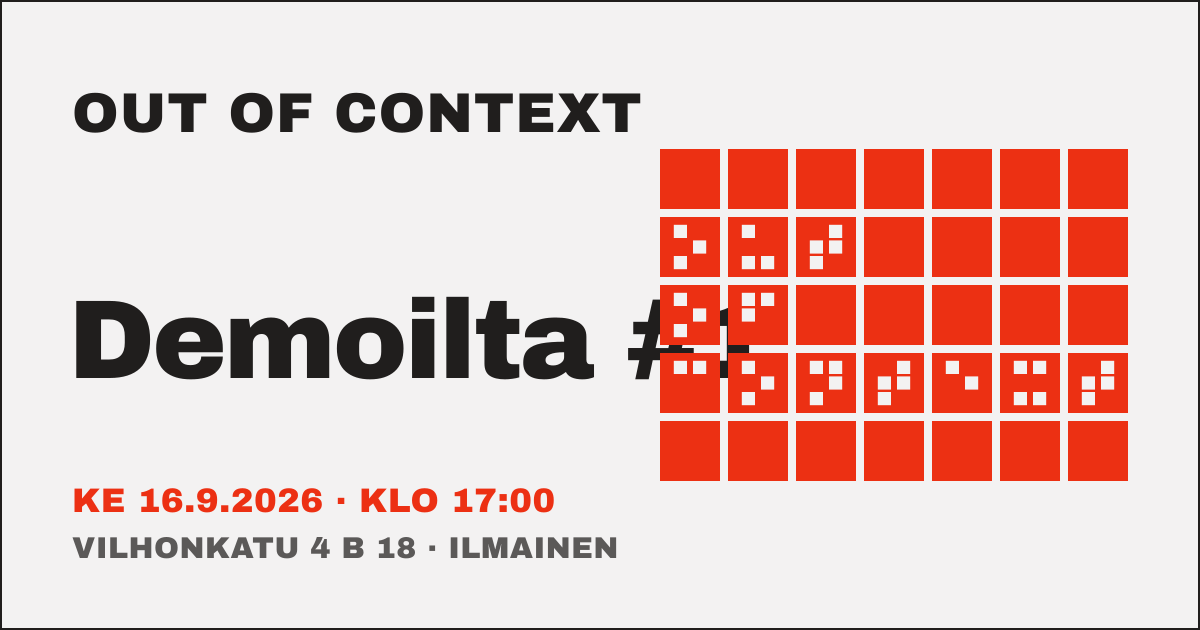
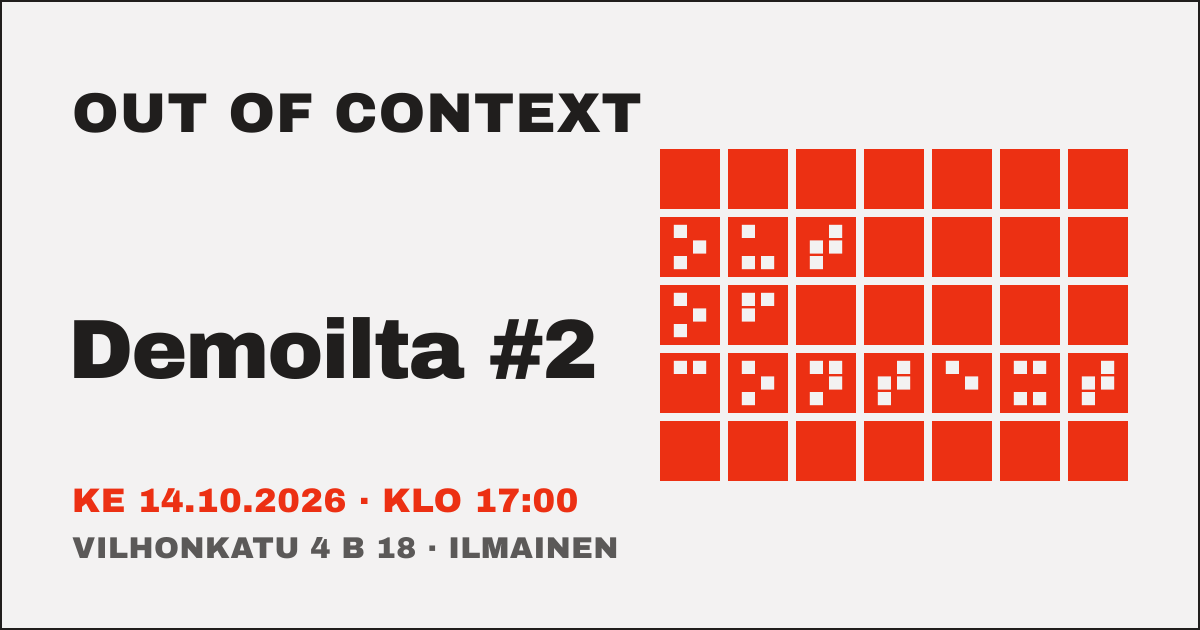
feat: announce demo night 2

diff --git a/templates/index.html b/templates/index.html
@@ -3,7 +3,7 @@
 <head>
 <meta charset="utf-8">
 <meta name="viewport" content="width=device-width, initial-scale=1">
-<title>Out of Context demoilta #1 · Helsinki 16.9.2026</title>
+<title>Out of Context demoilta #2 · Helsinki 14.10.2026</title>
 <meta name="description" content="{{ config.description }}">
 <link rel="canonical" href="{{ config.base_url }}/">
 
@@ -12,14 +12,14 @@
 <meta property="og:site_name" content="Out of Context">
 <meta property="og:locale" content="fi_FI">
 <meta property="og:url" content="{{ config.base_url }}/">
-<meta property="og:title" content="Out of Context demoilta #1">
+<meta property="og:title" content="Out of Context demoilta #2">
 <meta property="og:description" content="{{ config.description }}">
 <meta property="og:image" content="{{ config.base_url }}/og-image.png">
 <meta property="og:image:width" content="1200">
 <meta property="og:image:height" content="630">
-<meta property="og:image:alt" content="Out of Context — ilta sinulle joka luot AI:lla. Helsinki, ke 16.9.2026.">
+<meta property="og:image:alt" content="Out of Context — ilta sinulle joka luot AI:lla. Helsinki, ke 14.10.2026.">
 <meta name="twitter:card" content="summary_large_image">
-<meta name="twitter:title" content="Out of Context demoilta #1">
+<meta name="twitter:title" content="Out of Context demoilta #2">
 <meta name="twitter:description" content="{{ config.description }}">
 <meta name="twitter:image" content="{{ config.base_url }}/og-image.png">
 
@@ -311,11 +311,11 @@ a:hover { color: var(--color-accent); }
   <div id="lang-fi">
     <section style="display:grid; grid-template-columns:1.35fr 1fr; gap:48px; padding:56px 0 44px; border-bottom:2px solid var(--color-divider)">
       <div>
-        <div style="font-family:var(--font-heading); font-weight:700; font-size:13px; letter-spacing:0.1em; text-transform:uppercase; color:var(--color-accent-700); margin-bottom:28px">Helsinki · ke 16.9.2026 · klo 17:00 · ilmainen</div>
-        <h1 style="font-size:clamp(38px,6.2vw,78px); line-height:0.98; letter-spacing:-0.03em; margin:0 0 24px; text-wrap:balance">Demoilta #1</h1>
+        <div style="font-family:var(--font-heading); font-weight:700; font-size:13px; letter-spacing:0.1em; text-transform:uppercase; color:var(--color-accent-700); margin-bottom:28px">Helsinki · ke 14.10.2026 · klo 17:00 · ilmainen</div>
+        <h1 style="font-size:clamp(38px,6.2vw,78px); line-height:0.98; letter-spacing:-0.03em; margin:0 0 24px; text-wrap:balance">Demoilta #2</h1>
         <p style="font-size:20px; line-height:1.4; max-width:30ch; margin:0 0 36px">Ilta sinulle joka luot AI:lla.</p>
         <div style="display:grid; grid-template-columns:1fr 1fr; gap:12px; max-width:520px">
-          <a href="https://luma.com/8ankyx8u" class="btn btn-primary" style="justify-content:flex-start; text-align:left; font-size:17px; padding:18px 20px; border:2px solid var(--color-accent)">Ilmoittaudu</a>
+          <a href="https://luma.com/tf4w6epb" class="btn btn-primary" style="justify-content:flex-start; text-align:left; font-size:17px; padding:18px 20px; border:2px solid var(--color-accent)">Ilmoittaudu</a>
           <a href="mailto:hei@out-of-context.dev?subject=Haluan%20demota" class="btn" style="justify-content:flex-start; text-align:left; font-size:17px; padding:18px 20px; border:2px solid var(--color-text); background:var(--color-bg); color:var(--color-text)" data-hover-tint>Haluan demota</a>
         </div>
       </div>
@@ -327,7 +327,7 @@ a:hover { color: var(--color-accent); }
 
     <section style="display:grid; grid-template-columns:repeat(3, 1fr); gap:32px; padding:40px 0; border-bottom:2px solid var(--color-divider)">
       <p style="font-size:16px; margin:0">Olemme rakentamassa suomalaista yhteisöä kaikille AI:lla rakentaville: open source&nbsp;&#8209;devaajille, hakkereille, tutkijoille ja kaikille joilla on kesken kaikenlaisia rakenteluprojekteja. Kaikki tervetulleita.</p>
-      <p style="font-size:16px; margin:0">Ensimmäisessä tapaamisessa on kaksi vartin esitystä ja noin viisi salamademoa. Sen jälkeen puhutaan.</p>
+      <p style="font-size:16px; margin:0">Illassa on noin kuusi napakkaa demoa tai esitystä. Jokaisessa näytetään jotain rakennettua; sen jälkeen keskustellaan.</p>
       <p style="font-size:16px; margin:0">Ei sponsoripuheenvuoroja, ei paneeleja, ei rekrytointia.</p>
     </section>
 
@@ -378,8 +378,8 @@ a:hover { color: var(--color-accent); }
       </div>
       <div style="border:2px solid var(--color-divider); padding:24px; display:flex; flex-direction:column; gap:14px; align-items:flex-start">
         <div style="font-family:var(--font-heading); font-weight:700; font-size:11px; letter-spacing:0.1em; text-transform:uppercase">Lu.ma</div>
-        <div style="font-size:16px">Out of Context demoilta #1 · ke 16.9.2026 klo 17:00 · Vilhonkatu 4 B 18, Helsinki</div>
-        <a href="https://luma.com/8ankyx8u" class="btn btn-primary" style="justify-content:flex-start; font-size:16px; padding:16px 20px; width:100%; box-sizing:border-box">Ilmoittaudu Lu.massa</a>
+        <div style="font-size:16px">Out of Context demoilta #2 · ke 14.10.2026 klo 17:00 · Vilhonkatu 4 B 18, Helsinki</div>
+        <a href="https://luma.com/tf4w6epb" class="btn btn-primary" style="justify-content:flex-start; font-size:16px; padding:16px 20px; width:100%; box-sizing:border-box">Ilmoittaudu Lu.massa</a>
         <div class="text-muted" style="font-size:13px">Vilhonkatu 4 B 18, 4. krs, 00100 Helsinki. Kysyttävää? <a href="mailto:hei@out-of-context.dev?subject=Haluan%20demota">hei@out-of-context.dev</a></div>
       </div>
     </section>
@@ -388,11 +388,11 @@ a:hover { color: var(--color-accent); }
   <div id="lang-en" hidden>
     <section style="display:grid; grid-template-columns:1.35fr 1fr; gap:48px; padding:56px 0 44px; border-bottom:2px solid var(--color-divider)">
       <div>
-        <div style="font-family:var(--font-heading); font-weight:700; font-size:13px; letter-spacing:0.1em; text-transform:uppercase; color:var(--color-accent-700); margin-bottom:28px">Helsinki · Wed 16 Sep 2026 · 17:00 · free</div>
-        <h1 style="font-size:clamp(38px,6.2vw,78px); line-height:0.98; letter-spacing:-0.03em; margin:0 0 24px; text-wrap:balance">Demo night #1</h1>
+        <div style="font-family:var(--font-heading); font-weight:700; font-size:13px; letter-spacing:0.1em; text-transform:uppercase; color:var(--color-accent-700); margin-bottom:28px">Helsinki · Wed 14 Oct 2026 · 17:00 · free</div>
+        <h1 style="font-size:clamp(38px,6.2vw,78px); line-height:0.98; letter-spacing:-0.03em; margin:0 0 24px; text-wrap:balance">Demo night #2</h1>
         <p style="font-size:20px; line-height:1.4; max-width:30ch; margin:0 0 36px">An evening for people who build with AI.</p>
         <div style="display:grid; grid-template-columns:1fr 1fr; gap:12px; max-width:520px">
-          <a href="https://luma.com/8ankyx8u" class="btn btn-primary" style="justify-content:flex-start; text-align:left; font-size:17px; padding:18px 20px; border:2px solid var(--color-accent)">Sign up</a>
+          <a href="https://luma.com/tf4w6epb" class="btn btn-primary" style="justify-content:flex-start; text-align:left; font-size:17px; padding:18px 20px; border:2px solid var(--color-accent)">Sign up</a>
           <a href="mailto:hei@out-of-context.dev?subject=Haluan%20demota" class="btn" style="justify-content:flex-start; text-align:left; font-size:17px; padding:18px 20px; border:2px solid var(--color-text); background:var(--color-bg); color:var(--color-text)" data-hover-tint>I want to demo</a>
         </div>
       </div>
@@ -404,7 +404,7 @@ a:hover { color: var(--color-accent); }
 
     <section style="display:grid; grid-template-columns:repeat(3, 1fr); gap:32px; padding:40px 0; border-bottom:2px solid var(--color-divider)">
       <p style="font-size:16px; margin:0">We're building a Finnish community for people building with AI: open source developers, hackers, researchers, and anyone with half-finished projects lying around. Everyone welcome.</p>
-      <p style="font-size:16px; margin:0">The first meetup: two 15-minute talks and about five lightning demos. Then we talk.</p>
+      <p style="font-size:16px; margin:0">The evening features about six concise demos or talks. Each one shows something built; then we discuss it.</p>
       <p style="font-size:16px; margin:0">No sponsor slots, no panels, no recruiting.</p>
     </section>
 
@@ -455,8 +455,8 @@ a:hover { color: var(--color-accent); }
       </div>
       <div style="border:2px solid var(--color-divider); padding:24px; display:flex; flex-direction:column; gap:14px; align-items:flex-start">
         <div style="font-family:var(--font-heading); font-weight:700; font-size:11px; letter-spacing:0.1em; text-transform:uppercase">Lu.ma</div>
-        <div style="font-size:16px">Out of Context demo night #1 · Wed 16 Sep 2026, 17:00 · Vilhonkatu 4 B 18, Helsinki</div>
-        <a href="https://luma.com/8ankyx8u" class="btn btn-primary" style="justify-content:flex-start; font-size:16px; padding:16px 20px; width:100%; box-sizing:border-box">Register on Lu.ma</a>
+        <div style="font-size:16px">Out of Context demo night #2 · Wed 14 Oct 2026, 17:00 · Vilhonkatu 4 B 18, Helsinki</div>
+        <a href="https://luma.com/tf4w6epb" class="btn btn-primary" style="justify-content:flex-start; font-size:16px; padding:16px 20px; width:100%; box-sizing:border-box">Register on Lu.ma</a>
         <div class="text-muted" style="font-size:13px">Vilhonkatu 4 B 18, 4th floor, 00100 Helsinki. Questions? <a href="mailto:hei@out-of-context.dev?subject=Haluan%20demota">hei@out-of-context.dev</a></div>
       </div>
     </section>

diff --git a/tools/og-image/luma_cover.py b/tools/og-image/luma_cover.py
@@ -28,8 +28,8 @@ p = [f'<svg xmlns="http://www.w3.org/2000/svg" width="{W}" height="{H}" viewBox=
 p.append(f'<rect width="{W}" height="{H}" fill="{BG}"/>')
 p.append(f'<rect x="1" y="1" width="{W-2}" height="{H-2}" fill="none" stroke="{INK}" stroke-width="2"/>')
 p.append(f'<text x="{LX}" y="112" font-family="{FF}" font-size="42" letter-spacing="2" fill="{INK}">OUT OF CONTEXT</text>')
-p.append(f'<text x="{LX-4}" y="248" font-family="{FF}" font-size="104" letter-spacing="-2" fill="{INK}">Demoilta #1</text>')
-p.append(f'<text x="{LX}" y="324" font-family="{FF}" font-size="32" letter-spacing="0.5" fill="{RED}">KE 16.9.2026 &#183; KLO 17:00</text>')
+p.append(f'<text x="{LX-4}" y="248" font-family="{FF}" font-size="104" letter-spacing="-2" fill="{INK}">Demoilta #2</text>')
+p.append(f'<text x="{LX}" y="324" font-family="{FF}" font-size="32" letter-spacing="0.5" fill="{RED}">KE 14.10.2026 &#183; KLO 17:00</text>')
 p.append(f'<text x="{LX}" y="366" font-family="{FF}" font-size="28" letter-spacing="0.5" fill="{INK}" opacity="0.72">VILHONKATU 4 B 18 &#183; ILMAINEN</text>')
 
 # braille as big red favicon tiles, full content width

diff --git a/tools/og-image/generate.py b/tools/og-image/generate.py
@@ -42,8 +42,8 @@ parts.append(f'<rect x="1" y="1" width="{W-2}" height="{H-2}" fill="none" stroke
 # ---- left text column ----
 LX = 72
 parts.append(f'<text x="{LX}" y="132" font-family="{FF}" font-size="56" letter-spacing="1" fill="{INK}">OUT OF CONTEXT</text>')
-parts.append(f'<text x="{LX-4}" y="378" font-family="{FF}" font-size="112" letter-spacing="-3" fill="{INK}">Demoilta #1</text>')
-parts.append(f'<text x="{LX}" y="512" font-family="{FF}" font-size="34" letter-spacing="0.5" fill="{RED}">KE 16.9.2026 &#183; KLO 17:00</text>')
+parts.append(f'<text x="{LX-4}" y="378" font-family="{FF}" font-size="84" letter-spacing="-2" fill="{INK}">Demoilta #2</text>')
+parts.append(f'<text x="{LX}" y="512" font-family="{FF}" font-size="34" letter-spacing="0.5" fill="{RED}">KE 14.10.2026 &#183; KLO 17:00</text>')
 parts.append(f'<text x="{LX}" y="558" font-family="{FF}" font-size="30" letter-spacing="0.5" fill="{INK}" opacity="0.72">VILHONKATU 4 B 18 &#183; ILMAINEN</text>')
 
 # ---- right: braille "OUT OF CONTEXT" as big favicon tiles (no orange panel) ----

diff --git a/AGENTS.md b/AGENTS.md
@@ -88,15 +88,12 @@ Editorial rule that governs everything: *one bold choice, everything else quiet.
 The event's own rule — **if you talk, you show something running; no slides;
 crashing demos welcome** — is the content's north star.
 
-## Launch status
+## Current event
 
-The site went public on 2026-08-04. Done: real Lu.ma URL (`luma.com/8ankyx8u`),
-`noindex` removed (indexable; `robots.txt` + `sitemap.xml` auto-generated by
-Zola), repo public, footer source link fixed, `hei@` email routing live,
-`www`→apex redirect live, seat-count copy dropped. Remaining items live in
-`issues/launch-checklist/` — currently just the **exact venue** (page says
-"Helsingin keskusta, tarkka paikka viikkoa ennen") and a **social-preview smoke
-test**.
+The site went public on 2026-08-04. It currently promotes **Demoilta #2** on
+14 October 2026 at Vilhonkatu 4 B 18; registration is at
+`luma.com/tf4w6epb`. The site is indexable, the repository is public,
+`hei@` email routing is live, and `www` redirects to the apex domain.
 
 **Social/OG assets are generated, not hand-drawn.** After changing the date or
 venue, rerun `python3 tools/og-image/generate.py` (the `og-image.png` share card)

diff --git a/content/_index.md b/content/_index.md
@@ -3,7 +3,6 @@ title = "Out of Context"
 description = "Ilta sinulle joka luot AI:lla. Demoja, ei kalvoja."
 template = "index.html"
 
-# Ennen julkaisua vaihdettavat placeholderit elävät templatessa
-# (templates/index.html): Lu.ma-URL, hei@out-of-context.dev,
-# GitHub-repo, tila / kellonaika / paikkamäärä.
+# Tapahtumakohtaiset tiedot elävät templatessa (templates/index.html):
+# Lu.ma-URL, päivämäärä, tapahtuman numero, tila ja kellonaika.
 +++

diff --git a/README.md b/README.md
@@ -28,8 +28,8 @@ then `./deploy.sh`. Token permissions + custom-domain setup: `operations/secrets
 
 ## Status
 
-Private, pre-launch. Goes public — and the `noindex` meta comes off — when the
-first event is announced. See `AGENTS.md` for the placeholder checklist.
+Public at [out-of-context.dev](https://out-of-context.dev). The current event is
+Demoilta #2 on 14 October 2026.
 
 ## License
 
